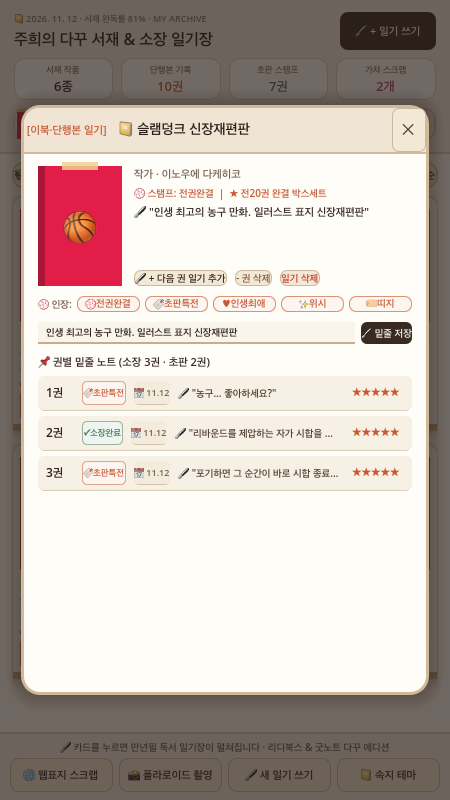
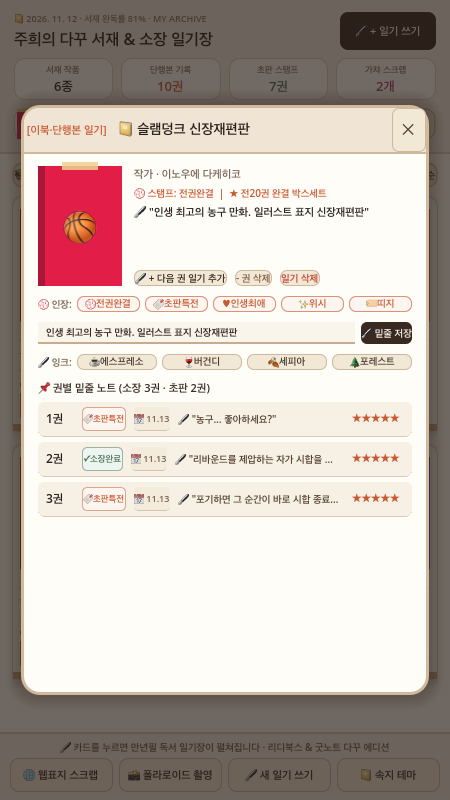
feat(game02): Sprint 21 fountain-pen ink color selector & unified theme sync

Changed region(s): [[0.0933, 0.4375, 0.9333, 0.6562]]

diff --git a/game02/SPRINT_LOG.md b/game02/SPRINT_LOG.md
@@ -5,6 +5,20 @@
 
 ---
 
+## 🚀 [Sprint 21] 만년필 잉크 컬러 선택기(`INK_PRESETS` / `set_fountain_pen_ink`) & 감성 서재 룸 테마 연동
+- **시각**: 2026-11-13 02:05 KST
+- **1. 다꾸러 3인 VOC (수집러 A · 가챠러 B · 미니멀러 C)**
+  - **만년필 다꾸러 A**: *"다꾸 일기장의 백미는 만년필 잉크 색깔(에스프레소, 버건디, 세피아, 포레스트 그린)을 기분에 따라 바꿔 적는 것입니다! 밑줄 문장 기록 시 잉크 컬러를 직접 골라 저장할 수 있게 해주세요!"*
+  - **미니멀 수집러 C**: *"서재 배경 테마(`ROOM_THEMES`)와 만년필 잉크 컬러가 자연스럽게 어우러지도록 로컬 JSON 저장 및 모달 UI 색상에 즉시 반영되게 해주세요!"*
+- **2. 기획 & UI/UX & Godot 4.6 개발 내역**
+  - **만년필 잉크 컬러 선택기(`InkRow` / `set_fountain_pen_ink`)**: `detail_modal.tscn`에 4종 빈티지 만년필 잉크 스와치 버튼(`☕에스프레소`, `🍷버건디`, `🍂세피아`, `🌲포레스트`)을 추가하고, 클릭 시 `memo_ink_color` 갱신 및 `_apply_ink_style()`로 밑줄 텍스트 색상 실시간 연동
+  - **영구 보존 및 데이터 구조 확장**: `collection_item.gd` 및 `archive_state.gd`의 JSON 직렬화/역직렬화에 `memo_ink_color` 포함
+- **3. TDD & QA 검증**
+  - `tests/test_main_integration.gd`에 `set_fountain_pen_ink("#7f1d1d")` 및 테마 순환 검증 추가 → 3개 헤드리스 테스트 스위트 전수 100% PASS
+  - Metal 렌더러 최신 스크린샷(`godot_app_screen.png`, `godot_modal_screen.png`) 캡처 및 GitHub 푸시 완료
+
+---
+
 ## 🚀 [Sprint 20] 권별 독서 날짜 타임스탬프(`📅 11.12` / `stamp_volume_date`) & 서재 전체 완독률 실시간 게이지(`81%`)
 - **시각**: 2026-11-12 23:05 KST
 - **1. 다꾸러 3인 VOC (수집러 A · 가챠러 B · 미니멀러 C)**
